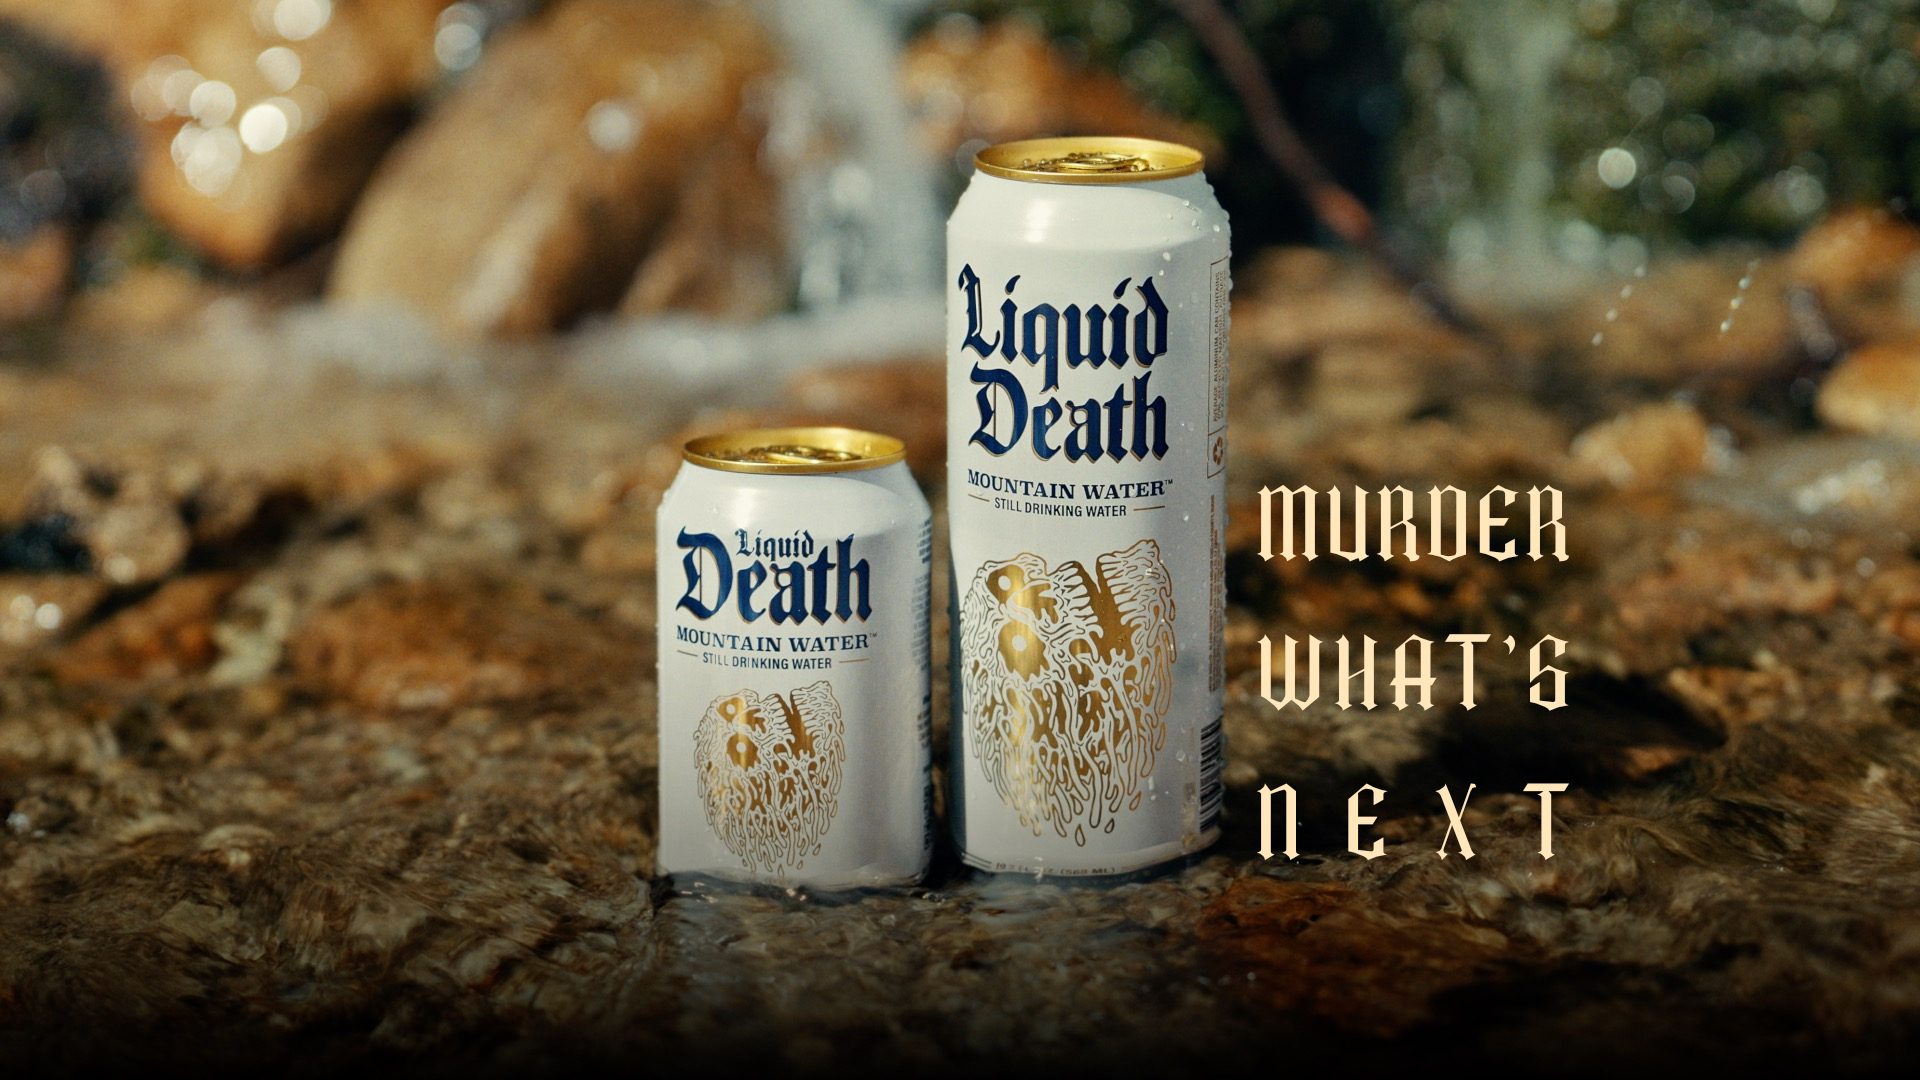
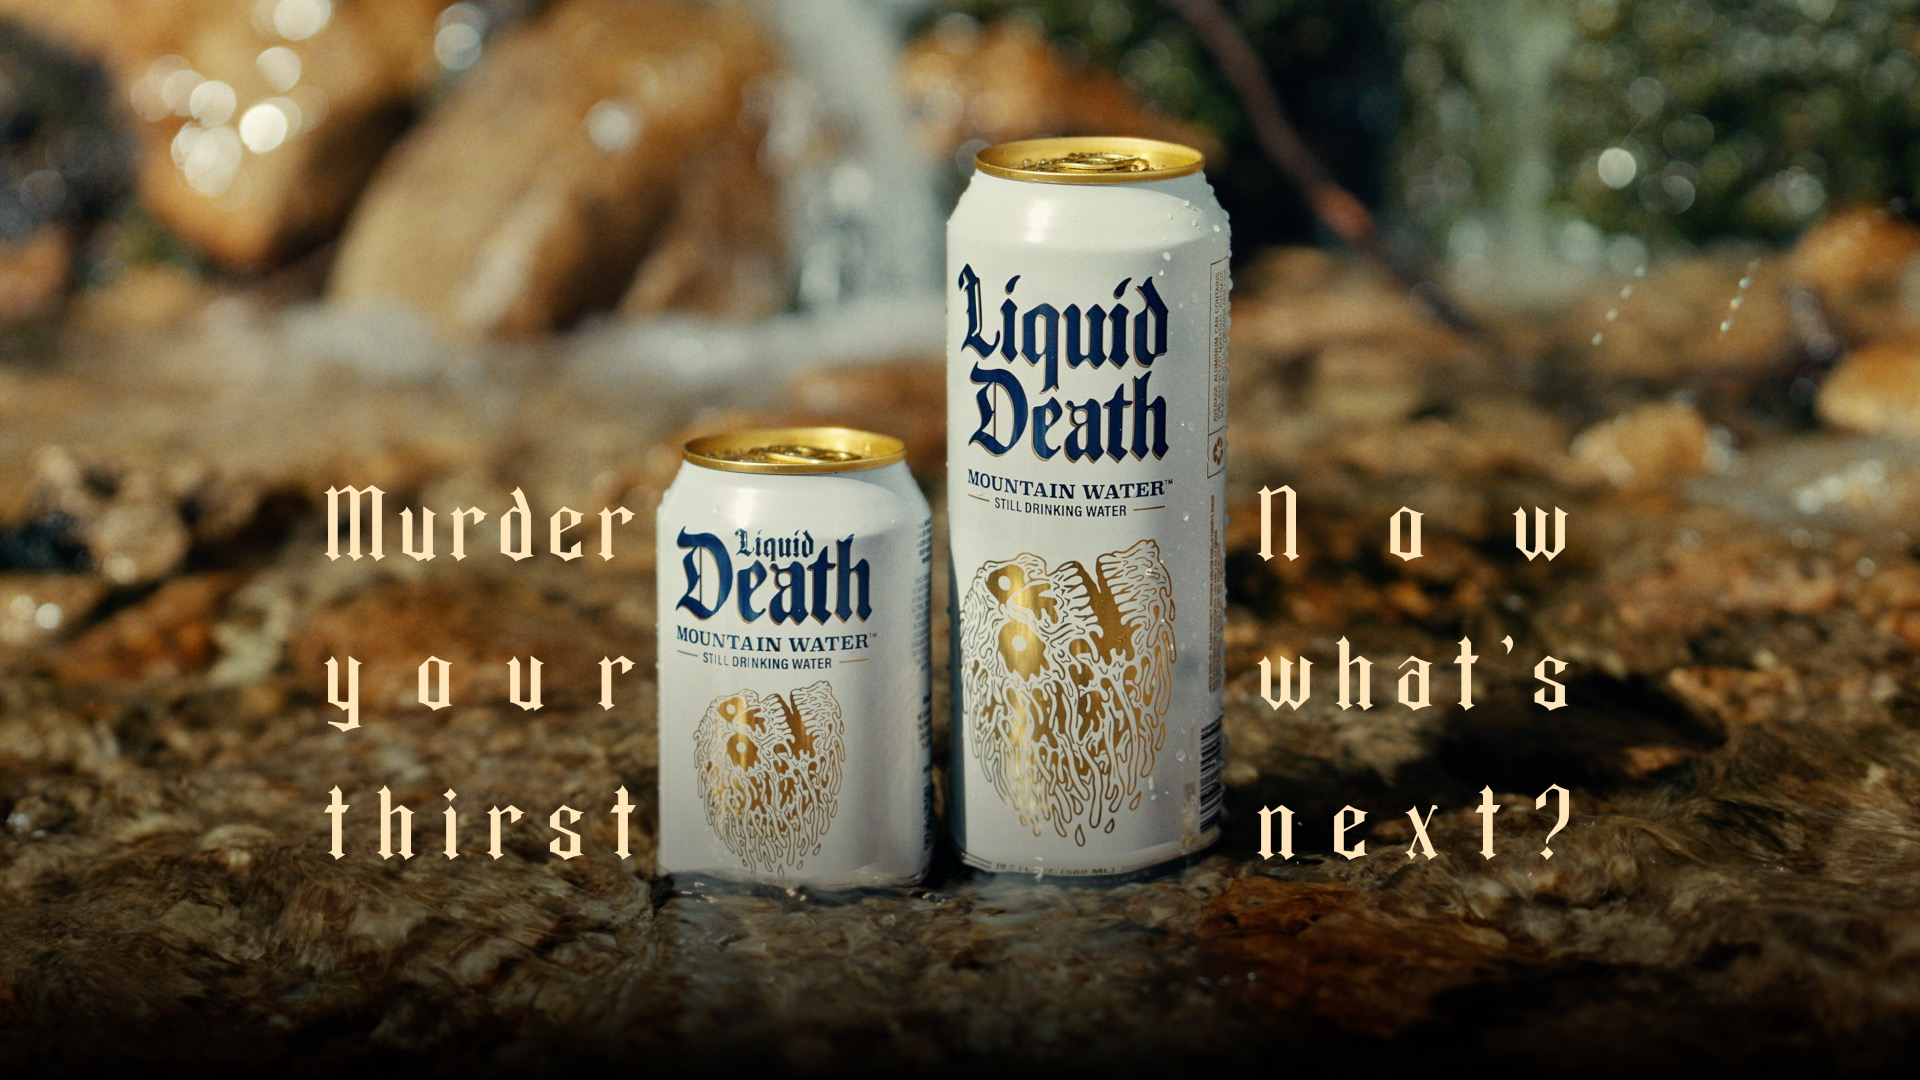
The Liquid Death tagline and cover, stranded by a failed save
His folder had both since 01:03 and GitHub had neither. Save to GitHub
writes the folder first, then uploads the picked images, then writes
content.js, and the image upload was throwing: one unreadable picked
file therefore stopped the words from ever reaching the live site, and
because pickedFiles is only emptied on success, every later save
retried the same failing file and died in the same place.

diff --git a/content.js b/content.js
@@ -151,7 +151,7 @@ window.SITE_CONTENT = {
         image: "coverr.jpg",
         alt: "",
         sticker: "Thirsty for fame",
-        tagline: "",
+        tagline: "The thirst was the easy one.",
         story: [
           "Liquid Death tastes good enough that murdering your thirst stops feeling like a metaphor.",
           "Two radio spots about what happens in the ninety seconds after. A first date. A middle seat. Same escalation both times.",
